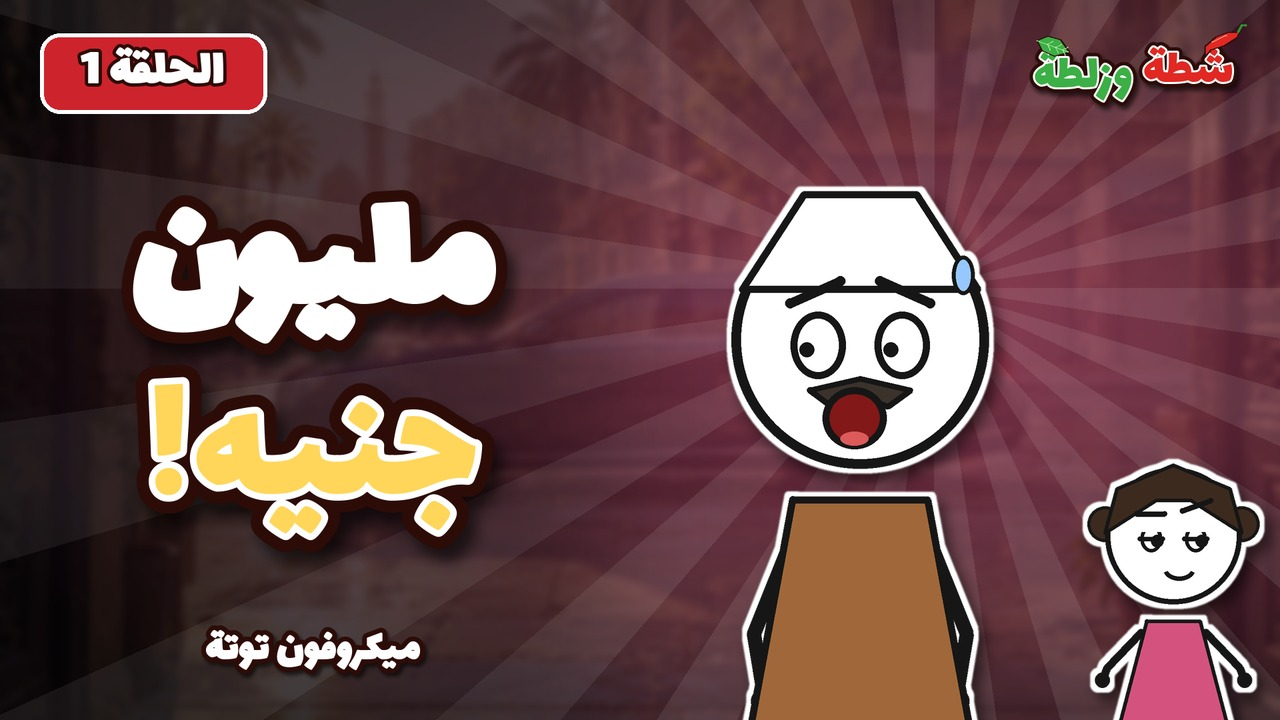
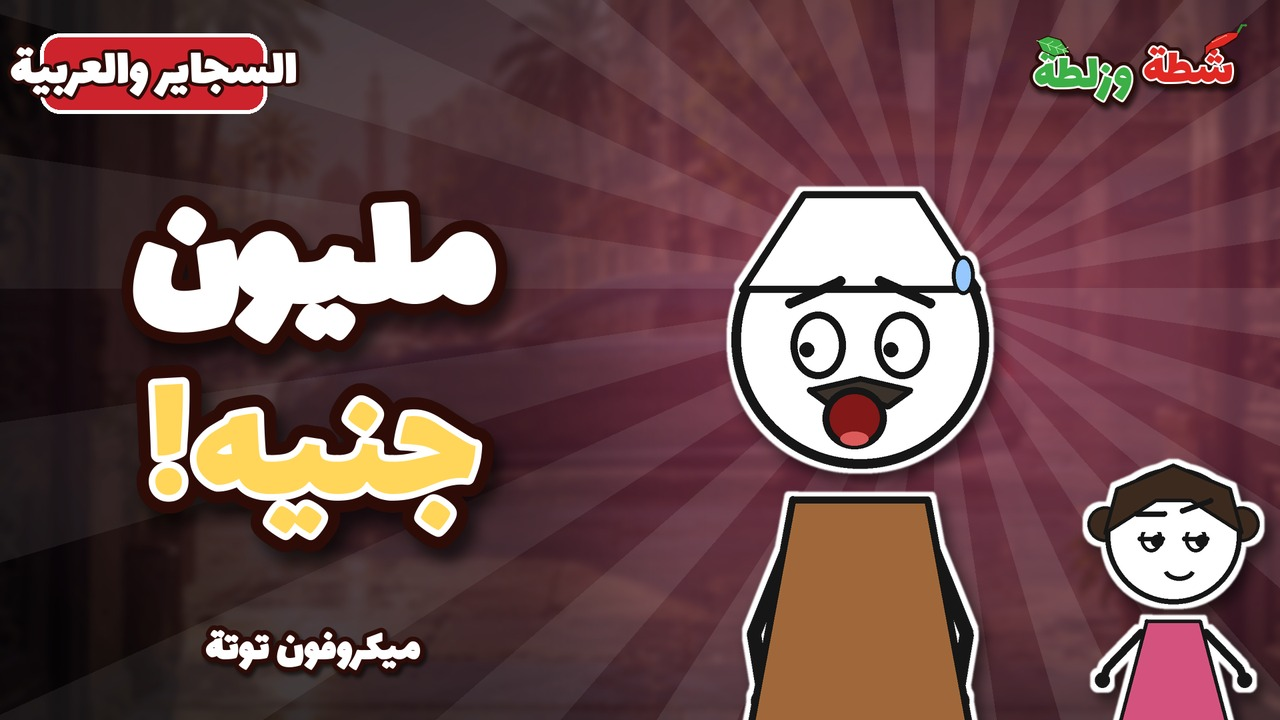
بص على رجلي: user notes (crowded class with Abdo & Tota, reactions, group laugh); rebuilt sketch thumbs/captions without episode numbers
Claude-Session: https://claude.ai/code/session_01QBkgXqDRYZm5xFdcbBft5r

Changed region(s): [[0.0, 0.0611, 0.25, 0.1528]]

diff --git a/publish/captions/daily_e01.html b/publish/captions/daily_e01.html
@@ -12,7 +12,7 @@ pre{margin:0;white-space:pre-wrap;word-break:break-word;background:var(--bg);bor
 button{font:inherit;font-size:14px;font-weight:700;border:0;border-radius:999px;padding:8px 18px;background:var(--acc);color:#fff;cursor:pointer;min-width:84px}
 button.done{background:var(--ok)}
 .files{font-size:14px;color:var(--muted)}
-</style></head><body><div class="wrap"><header><h1>يوميات شطة وزلطة — التلاجة</h1><p>ميعاد النشر: 2026-11-25 15:00 بتوقيت القاهرة</p></header><section class="plat"><h2><span class="dot" style="background:#ff0033"></span>يوتيوب (الحلقة العرض)</h2><div class="field"><div class="label"><span>العنوان</span><button onclick="copyText('f1', this)">نسخ</button></div><pre id="f1">طلعوا التلاجة 10 أدوار… في العمارة الغلط! 😂 | يوميات شطة وزلطة - الحلقة 1 | شطة وزلطة</pre></div><div class="field"><div class="label"><span>الوصف</span><button onclick="copyText('f2', this)">نسخ</button></div><pre id="f2">شطة وزلطة طالعين بالتلاجة وتعبانين موت… وعم بندق عنده خبرين: واحد حلو وواحد وحش 😂
+</style></head><body><div class="wrap"><header><h1>يوميات شطة وزلطة — التلاجة</h1><p>ميعاد النشر: 2026-11-25 15:00 بتوقيت القاهرة</p></header><section class="plat"><h2><span class="dot" style="background:#ff0033"></span>يوتيوب (الحلقة العرض)</h2><div class="field"><div class="label"><span>العنوان</span><button onclick="copyText('f1', this)">نسخ</button></div><pre id="f1">طلعوا التلاجة 10 أدوار… في العمارة الغلط! 😂 | يوميات شطة وزلطة - التلاجة | شطة وزلطة</pre></div><div class="field"><div class="label"><span>الوصف</span><button onclick="copyText('f2', this)">نسخ</button></div><pre id="f2">شطة وزلطة طالعين بالتلاجة وتعبانين موت… وعم بندق عنده خبرين: واحد حلو وواحد وحش 😂
 
 «يوميات شطة وزلطة» 🌶🥗 — مواقف يومية مصرية بتحصل لنا كلنا… بس مع شطة وزلطة بتبقى أضحك! سكتش كوميدي قصير
 
@@ -30,7 +30,7 @@ button.done{background:var(--ok)}
 ▶ يوتيوب: https://www.youtube.com/@shattawzalata
 🎵 تيك توك: https://www.tiktok.com/@shattawzalata
 📸 انستجرام: https://www.instagram.com/shattawzalata
-👍 فيسبوك: https://www.facebook.com/shattawzalata</pre></div></section><section class="plat"><h2><span class="dot" style="background:#ff0033"></span>يوتيوب شورتس</h2><div class="field"><div class="label"><span>العنوان</span><button onclick="copyText('f5', this)">نسخ</button></div><pre id="f5">طلعوا التلاجة 10 أدوار… في العمارة الغلط! 😂 | يوميات شطة وزلطة الحلقة 1 #Shorts</pre></div><div class="field"><div class="label"><span>الوصف</span><button onclick="copyText('f6', this)">نسخ</button></div><pre id="f6">شطة وزلطة طالعين بالتلاجة وتعبانين موت… وعم بندق عنده خبرين: واحد حلو وواحد وحش 😂
+👍 فيسبوك: https://www.facebook.com/shattawzalata</pre></div></section><section class="plat"><h2><span class="dot" style="background:#ff0033"></span>يوتيوب شورتس</h2><div class="field"><div class="label"><span>العنوان</span><button onclick="copyText('f5', this)">نسخ</button></div><pre id="f5">طلعوا التلاجة 10 أدوار… في العمارة الغلط! 😂 | يوميات شطة وزلطة التلاجة #Shorts</pre></div><div class="field"><div class="label"><span>الوصف</span><button onclick="copyText('f6', this)">نسخ</button></div><pre id="f6">شطة وزلطة طالعين بالتلاجة وتعبانين موت… وعم بندق عنده خبرين: واحد حلو وواحد وحش 😂
 
 تابعونا في كل مكان 👇
 ▶ يوتيوب: https://www.youtube.com/@shattawzalata
@@ -44,13 +44,13 @@ button.done{background:var(--ok)}
 ▶ يوتيوب: https://www.youtube.com/@shattawzalata
 🎵 تيك توك: https://www.tiktok.com/@shattawzalata
 📸 انستجرام: https://www.instagram.com/shattawzalata
-👍 فيسبوك: https://www.facebook.com/shattawzalata</pre></div></section><section class="plat"><h2><span class="dot" style="background:#25f4ee"></span>تيك توك</h2><div class="field"><div class="label"><span>الكابشن</span><button onclick="copyText('f8', this)">نسخ</button></div><pre id="f8">شطة وزلطة طالعين بالتلاجة وتعبانين موت… وعم بندق عنده خبرين: واحد حلو وواحد وحش 😂 الحلقة 1 من «يوميات شطة وزلطة» 🎬
+👍 فيسبوك: https://www.facebook.com/shattawzalata</pre></div></section><section class="plat"><h2><span class="dot" style="background:#25f4ee"></span>تيك توك</h2><div class="field"><div class="label"><span>الكابشن</span><button onclick="copyText('f8', this)">نسخ</button></div><pre id="f8">شطة وزلطة طالعين بالتلاجة وتعبانين موت… وعم بندق عنده خبرين: واحد حلو وواحد وحش 😂 من «يوميات شطة وزلطة» 🎬
 💬 لو إنت مكان شطة وزلطة… كنت هتعمل إيه في عم بندق؟ 😂 👇
 #يوميات_شطة_وزلطة #شطة_وزلطة #كرتون_مصري #كوميدي #ضحك #fyp</pre></div><div class="field"><div class="label"><span>الكومنت المثبت</span><button onclick="copyText('f9', this)">نسخ</button></div><pre id="f9">💬 لو إنت مكان شطة وزلطة… كنت هتعمل إيه في عم بندق؟ 😂 👇
-تابعونا على يوتيوب وانستجرام وفيسبوك وتيك توك: @shattawzalata 🌶🥗</pre></div></section><section class="plat"><h2><span class="dot" style="background:#e1306c"></span>ريلز انستجرام</h2><div class="field"><div class="label"><span>الكابشن</span><button onclick="copyText('f10', this)">نسخ</button></div><pre id="f10">شطة وزلطة طالعين بالتلاجة وتعبانين موت… وعم بندق عنده خبرين: واحد حلو وواحد وحش 😂 الحلقة 1 من «يوميات شطة وزلطة» 🎬
+تابعونا على يوتيوب وانستجرام وفيسبوك وتيك توك: @shattawzalata 🌶🥗</pre></div></section><section class="plat"><h2><span class="dot" style="background:#e1306c"></span>ريلز انستجرام</h2><div class="field"><div class="label"><span>الكابشن</span><button onclick="copyText('f10', this)">نسخ</button></div><pre id="f10">شطة وزلطة طالعين بالتلاجة وتعبانين موت… وعم بندق عنده خبرين: واحد حلو وواحد وحش 😂 من «يوميات شطة وزلطة» 🎬
 💬 لو إنت مكان شطة وزلطة… كنت هتعمل إيه في عم بندق؟ 😂 👇
 #يوميات_شطة_وزلطة #شطة_وزلطة #كرتون_مصري #كوميدي #ريلز</pre></div><div class="field"><div class="label"><span>الكومنت المثبت</span><button onclick="copyText('f11', this)">نسخ</button></div><pre id="f11">💬 لو إنت مكان شطة وزلطة… كنت هتعمل إيه في عم بندق؟ 😂 👇
-تابعونا على يوتيوب وانستجرام وفيسبوك وتيك توك: @shattawzalata 🌶🥗</pre></div></section><section class="plat"><h2><span class="dot" style="background:#1877f2"></span>ريلز فيسبوك</h2><div class="field"><div class="label"><span>الكابشن</span><button onclick="copyText('f12', this)">نسخ</button></div><pre id="f12">شطة وزلطة طالعين بالتلاجة وتعبانين موت… وعم بندق عنده خبرين: واحد حلو وواحد وحش 😂 الحلقة 1 من «يوميات شطة وزلطة» 🎬
+تابعونا على يوتيوب وانستجرام وفيسبوك وتيك توك: @shattawzalata 🌶🥗</pre></div></section><section class="plat"><h2><span class="dot" style="background:#1877f2"></span>ريلز فيسبوك</h2><div class="field"><div class="label"><span>الكابشن</span><button onclick="copyText('f12', this)">نسخ</button></div><pre id="f12">شطة وزلطة طالعين بالتلاجة وتعبانين موت… وعم بندق عنده خبرين: واحد حلو وواحد وحش 😂 من «يوميات شطة وزلطة» 🎬
 💬 لو إنت مكان شطة وزلطة… كنت هتعمل إيه في عم بندق؟ 😂 👇
 #يوميات_شطة_وزلطة #شطة_وزلطة #كرتون_مصري</pre></div><div class="field"><div class="label"><span>الكومنت المثبت</span><button onclick="copyText('f13', this)">نسخ</button></div><pre id="f13">💬 لو إنت مكان شطة وزلطة… كنت هتعمل إيه في عم بندق؟ 😂 👇
 تابعونا على يوتيوب وانستجرام وفيسبوك وتيك توك: @shattawzalata 🌶🥗</pre></div></section></div><script>

diff --git a/publish/captions/mic_e01.html b/publish/captions/mic_e01.html
@@ -12,7 +12,7 @@ pre{margin:0;white-space:pre-wrap;word-break:break-word;background:var(--bg);bor
 button{font:inherit;font-size:14px;font-weight:700;border:0;border-radius:999px;padding:8px 18px;background:var(--acc);color:#fff;cursor:pointer;min-width:84px}
 button.done{background:var(--ok)}
 .files{font-size:14px;color:var(--muted)}
-</style></head><body><div class="wrap"><header><h1>ميكروفون توتة — السجاير والعربية</h1><p>ميعاد النشر: 2026-11-24 15:00 بتوقيت القاهرة</p></header><section class="plat"><h2><span class="dot" style="background:#ff0033"></span>يوتيوب (الحلقة العرض)</h2><div class="field"><div class="label"><span>العنوان</span><button onclick="copyText('f1', this)">نسخ</button></div><pre id="f1">عم بندق وحسبة السجاير! 🚬🚗 | ميكروفون توتة - الحلقة 1 | شطة وزلطة</pre></div><div class="field"><div class="label"><span>الوصف</span><button onclick="copyText('f2', this)">نسخ</button></div><pre id="f2">توتة نزلت بالميكروفون وحسبت لعم بندق السجاير بتاعته… مليون جنيه! بس رده قلب الطاولة 😂
+</style></head><body><div class="wrap"><header><h1>ميكروفون توتة — السجاير والعربية</h1><p>ميعاد النشر: 2026-11-24 15:00 بتوقيت القاهرة</p></header><section class="plat"><h2><span class="dot" style="background:#ff0033"></span>يوتيوب (الحلقة العرض)</h2><div class="field"><div class="label"><span>العنوان</span><button onclick="copyText('f1', this)">نسخ</button></div><pre id="f1">عم بندق وحسبة السجاير! 🚬🚗 | ميكروفون توتة - السجاير والعربية | شطة وزلطة</pre></div><div class="field"><div class="label"><span>الوصف</span><button onclick="copyText('f2', this)">نسخ</button></div><pre id="f2">توتة نزلت بالميكروفون وحسبت لعم بندق السجاير بتاعته… مليون جنيه! بس رده قلب الطاولة 😂
 
 «ميكروفون توتة» 🎤 — توتة بتنزل بالميكروفون تسأل سؤال واحد… والإجابة دايماً بتقلب الطاولة! سكتش كوميدي من «شطة وزلطة» 🌶🥗
 
@@ -30,7 +30,7 @@ button.done{background:var(--ok)}
 ▶ يوتيوب: https://www.youtube.com/@shattawzalata
 🎵 تيك توك: https://www.tiktok.com/@shattawzalata
 📸 انستجرام: https://www.instagram.com/shattawzalata
-👍 فيسبوك: https://www.facebook.com/shattawzalata</pre></div></section><section class="plat"><h2><span class="dot" style="background:#ff0033"></span>يوتيوب شورتس</h2><div class="field"><div class="label"><span>العنوان</span><button onclick="copyText('f5', this)">نسخ</button></div><pre id="f5">عم بندق وحسبة السجاير! 🚬🚗 | ميكروفون توتة الحلقة 1 #Shorts</pre></div><div class="field"><div class="label"><span>الوصف</span><button onclick="copyText('f6', this)">نسخ</button></div><pre id="f6">توتة نزلت بالميكروفون وحسبت لعم بندق السجاير بتاعته… مليون جنيه! بس رده قلب الطاولة 😂
+👍 فيسبوك: https://www.facebook.com/shattawzalata</pre></div></section><section class="plat"><h2><span class="dot" style="background:#ff0033"></span>يوتيوب شورتس</h2><div class="field"><div class="label"><span>العنوان</span><button onclick="copyText('f5', this)">نسخ</button></div><pre id="f5">عم بندق وحسبة السجاير! 🚬🚗 | ميكروفون توتة السجاير والعربية #Shorts</pre></div><div class="field"><div class="label"><span>الوصف</span><button onclick="copyText('f6', this)">نسخ</button></div><pre id="f6">توتة نزلت بالميكروفون وحسبت لعم بندق السجاير بتاعته… مليون جنيه! بس رده قلب الطاولة 😂
 
 تابعونا في كل مكان 👇
 ▶ يوتيوب: https://www.youtube.com/@shattawzalata
@@ -44,13 +44,13 @@ button.done{background:var(--ok)}
 ▶ يوتيوب: https://www.youtube.com/@shattawzalata
 🎵 تيك توك: https://www.tiktok.com/@shattawzalata
 📸 انستجرام: https://www.instagram.com/shattawzalata
-👍 فيسبوك: https://www.facebook.com/shattawzalata</pre></div></section><section class="plat"><h2><span class="dot" style="background:#25f4ee"></span>تيك توك</h2><div class="field"><div class="label"><span>الكابشن</span><button onclick="copyText('f8', this)">نسخ</button></div><pre id="f8">توتة نزلت بالميكروفون وحسبت لعم بندق السجاير بتاعته… مليون جنيه! بس رده قلب الطاولة 😂 الحلقة 1 من «ميكروفون توتة» 🎬
+👍 فيسبوك: https://www.facebook.com/shattawzalata</pre></div></section><section class="plat"><h2><span class="dot" style="background:#25f4ee"></span>تيك توك</h2><div class="field"><div class="label"><span>الكابشن</span><button onclick="copyText('f8', this)">نسخ</button></div><pre id="f8">توتة نزلت بالميكروفون وحسبت لعم بندق السجاير بتاعته… مليون جنيه! بس رده قلب الطاولة 😂 من «ميكروفون توتة» 🎬
 💬 لو إنت مكان توتة… كنت هترد على عم بندق تقول إيه؟ 😂 👇
 #ميكروفون_توتة #شطة_وزلطة #كرتون_مصري #كوميدي #ضحك #fyp</pre></div><div class="field"><div class="label"><span>الكومنت المثبت</span><button onclick="copyText('f9', this)">نسخ</button></div><pre id="f9">💬 لو إنت مكان توتة… كنت هترد على عم بندق تقول إيه؟ 😂 👇
-تابعونا على يوتيوب وانستجرام وفيسبوك وتيك توك: @shattawzalata 🌶🥗</pre></div></section><section class="plat"><h2><span class="dot" style="background:#e1306c"></span>ريلز انستجرام</h2><div class="field"><div class="label"><span>الكابشن</span><button onclick="copyText('f10', this)">نسخ</button></div><pre id="f10">توتة نزلت بالميكروفون وحسبت لعم بندق السجاير بتاعته… مليون جنيه! بس رده قلب الطاولة 😂 الحلقة 1 من «ميكروفون توتة» 🎬
+تابعونا على يوتيوب وانستجرام وفيسبوك وتيك توك: @shattawzalata 🌶🥗</pre></div></section><section class="plat"><h2><span class="dot" style="background:#e1306c"></span>ريلز انستجرام</h2><div class="field"><div class="label"><span>الكابشن</span><button onclick="copyText('f10', this)">نسخ</button></div><pre id="f10">توتة نزلت بالميكروفون وحسبت لعم بندق السجاير بتاعته… مليون جنيه! بس رده قلب الطاولة 😂 من «ميكروفون توتة» 🎬
 💬 لو إنت مكان توتة… كنت هترد على عم بندق تقول إيه؟ 😂 👇
 #ميكروفون_توتة #شطة_وزلطة #كرتون_مصري #كوميدي #ريلز</pre></div><div class="field"><div class="label"><span>الكومنت المثبت</span><button onclick="copyText('f11', this)">نسخ</button></div><pre id="f11">💬 لو إنت مكان توتة… كنت هترد على عم بندق تقول إيه؟ 😂 👇
-تابعونا على يوتيوب وانستجرام وفيسبوك وتيك توك: @shattawzalata 🌶🥗</pre></div></section><section class="plat"><h2><span class="dot" style="background:#1877f2"></span>ريلز فيسبوك</h2><div class="field"><div class="label"><span>الكابشن</span><button onclick="copyText('f12', this)">نسخ</button></div><pre id="f12">توتة نزلت بالميكروفون وحسبت لعم بندق السجاير بتاعته… مليون جنيه! بس رده قلب الطاولة 😂 الحلقة 1 من «ميكروفون توتة» 🎬
+تابعونا على يوتيوب وانستجرام وفيسبوك وتيك توك: @shattawzalata 🌶🥗</pre></div></section><section class="plat"><h2><span class="dot" style="background:#1877f2"></span>ريلز فيسبوك</h2><div class="field"><div class="label"><span>الكابشن</span><button onclick="copyText('f12', this)">نسخ</button></div><pre id="f12">توتة نزلت بالميكروفون وحسبت لعم بندق السجاير بتاعته… مليون جنيه! بس رده قلب الطاولة 😂 من «ميكروفون توتة» 🎬
 💬 لو إنت مكان توتة… كنت هترد على عم بندق تقول إيه؟ 😂 👇
 #ميكروفون_توتة #شطة_وزلطة #كرتون_مصري</pre></div><div class="field"><div class="label"><span>الكومنت المثبت</span><button onclick="copyText('f13', this)">نسخ</button></div><pre id="f13">💬 لو إنت مكان توتة… كنت هترد على عم بندق تقول إيه؟ 😂 👇
 تابعونا على يوتيوب وانستجرام وفيسبوك وتيك توك: @shattawzalata 🌶🥗</pre></div></section></div><script>

diff --git a/publish/schedule.md b/publish/schedule.md
@@ -23,8 +23,8 @@
 | 2026-11-21 | 21:00 | عمارة نعناعة - الموسم 1 — الحلقة 9: اللي ورا الباب | ✅ عرض + Short | ✅ | ✅ ريل | يوتيوب ⏳ • شورتس ⏳ • تيك توك ✅ • فيس ✅ • انستا ✅ |
 | 2026-11-22 | 21:00 | عمارة نعناعة - الموسم 1 — الحلقة 10: الحقيقة | ✅ عرض + Short | ✅ | ✅ ريل | يوتيوب ⏳ • شورتس ⏳ • تيك توك ✅ • فيس ✅ • انستا ✅ |
 | 2026-11-23 | 18:00 | عمارة نعناعة - الموسم 1 — الفيلم: الموسم الأول كامل | ✅ عرض | — | ✅ فيديو فيسبوك | فيلم كامل على فيس ✅ (منشور فيديو) • الملخص الطولي: تيك توك ✅ • ريلز انستا/فيس ✅ • يوتيوب (الفيلم الكامل) ⏳ |
-| 2026-11-24 | 15:00 | ميكروفون توتة — الحلقة 1: السجاير والعربية | ✅ عرض + Short | ✅ | ✅ ريل | جاهز ✅ (يوتيوب + شورتس + تيك توك + ريلز انستا/فيس) — مستني الجدولة 24/11 الساعة 3 العصر |
-| 2026-11-25 | 15:00 | يوميات شطة وزلطة — الحلقة 1: التلاجة | ✅ عرض + Short | ✅ | ✅ ريل | جاهز ✅ (يوتيوب + شورتس + تيك توك + ريلز انستا/فيس) — مستني الجدولة 25/11 الساعة 3 العصر |
+| 2026-11-24 | 15:00 | ميكروفون توتة — السجاير والعربية | ✅ عرض + Short | ✅ | ✅ ريل | جاهز ✅ (يوتيوب + شورتس + تيك توك + ريلز انستا/فيس) — مستني الجدولة 24/11 الساعة 3 العصر |
+| 2026-11-25 | 15:00 | يوميات شطة وزلطة — التلاجة | ✅ عرض + Short | ✅ | ✅ ريل | جاهز ✅ (يوتيوب + شورتس + تيك توك + ريلز انستا/فيس) — مستني الجدولة 25/11 الساعة 3 العصر |
 | 2026-12-05 | 18:00 | عمارة نعناعة - الموسم 2 — الفيلم: الموسم التاني كامل | ✅ عرض | — | ✅ فيديو فيسبوك | جاهز ✅ (يوتيوب + فيديو فيسبوك) — مستني الجدولة 5/12 بعد آخر حلقة |
 | 2026-11-23 | 21:00 | عمارة نعناعة - الموسم 2 — إعلان: إعلان الموسم التاني | ✅ عرض + Short | ✅ | ✅ ريل | pending |
 | 2026-11-24 | 21:00 | عمارة نعناعة - الموسم 2 — الحلقة 1: باب البدروم | ✅ عرض + Short | ✅ | ✅ ريل | pending |
@@ -1059,14 +1059,14 @@
 👍 فيسبوك: https://www.facebook.com/shattawzalata
 ```
 
-### 2026-11-24 15:00 — ميكروفون توتة — الحلقة 1: السجاير والعربية
+### 2026-11-24 15:00 — ميكروفون توتة — السجاير والعربية
 
-- **الملفات:** `media/mic_e01_h.mp4` + `media/mic_e01_v.mp4` (الأصل: ميكروفون توتة - الحلقة 01 - السجاير والعربية.mp4)
+- **الملفات:** `media/mic_e01_h.mp4` + `media/mic_e01_v.mp4` (الأصل: ميكروفون توتة - السجاير والعربية.mp4)
 - **الصور:** `thumbs/mic_e01_yt.jpg` (يوتيوب) — `thumbs/mic_e01_cover.jpg` (غلاف طولي)
 
 **عنوان يوتيوب:**
 ```
-عم بندق وحسبة السجاير! 🚬🚗 | ميكروفون توتة - الحلقة 1 | شطة وزلطة
+عم بندق وحسبة السجاير! 🚬🚗 | ميكروفون توتة - السجاير والعربية | شطة وزلطة
 ```
 **وصف يوتيوب:**
 ```
@@ -1096,13 +1096,13 @@
 ```
 **كابشن تيك توك:**
 ```
-توتة نزلت بالميكروفون وحسبت لعم بندق السجاير بتاعته… مليون جنيه! بس رده قلب الطاولة 😂 الحلقة 1 من «ميكروفون توتة» 🎬
+توتة نزلت بالميكروفون وحسبت لعم بندق السجاير بتاعته… مليون جنيه! بس رده قلب الطاولة 😂 من «ميكروفون توتة» 🎬
 💬 لو إنت مكان توتة… كنت هترد على عم بندق تقول إيه؟ 😂 👇
 #ميكروفون_توتة #شطة_وزلطة #كرتون_مصري #كوميدي #ضحك #fyp
 ```
 **كابشن انستجرام/فيسبوك:**
 ```
-توتة نزلت بالميكروفون وحسبت لعم بندق السجاير بتاعته… مليون جنيه! بس رده قلب الطاولة 😂 الحلقة 1 من «ميكروفون توتة» 🎬
+توتة نزلت بالميكروفون وحسبت لعم بندق السجاير بتاعته… مليون جنيه! بس رده قلب الطاولة 😂 من «ميكروفون توتة» 🎬
 💬 لو إنت مكان توتة… كنت هترد على عم بندق تقول إيه؟ 😂 👇
 #ميكروفون_توتة #شطة_وزلطة #كرتون_مصري #كوميدي #ريلز
 ```
@@ -1112,14 +1112,14 @@
 تابعونا على يوتيوب وانستجرام وفيسبوك وتيك توك: @shattawzalata 🌶🥗
 ```
 
-### 2026-11-25 15:00 — يوميات شطة وزلطة — الحلقة 1: التلاجة
+### 2026-11-25 15:00 — يوميات شطة وزلطة — التلاجة
 
-- **الملفات:** `media/daily_e01_h.mp4` + `media/daily_e01_v.mp4` (الأصل: يوميات شطة وزلطة - الحلقة 01 - التلاجة.mp4)
+- **الملفات:** `media/daily_e01_h.mp4` + `media/daily_e01_v.mp4` (الأصل: يوميات شطة وزلطة - التلاجة.mp4)
 - **الصور:** `thumbs/daily_e01_yt.jpg` (يوتيوب) — `thumbs/daily_e01_cover.jpg` (غلاف طولي)
 
 **عنوان يوتيوب:**
 ```
-طلعوا التلاجة 10 أدوار… في العمارة الغلط! 😂 | يوميات شطة وزلطة - الحلقة 1 | شطة وزلطة
+طلعوا التلاجة 10 أدوار… في العمارة الغلط! 😂 | يوميات شطة وزلطة - التلاجة | شطة وزلطة
 ```
 **وصف يوتيوب:**
 ```
@@ -1149,13 +1149,13 @@
 ```
 **كابشن تيك توك:**
 ```
-شطة وزلطة طالعين بالتلاجة وتعبانين موت… وعم بندق عنده خبرين: واحد حلو وواحد وحش 😂 الحلقة 1 من «يوميات شطة وزلطة» 🎬
+شطة وزلطة طالعين بالتلاجة وتعبانين موت… وعم بندق عنده خبرين: واحد حلو وواحد وحش 😂 من «يوميات شطة وزلطة» 🎬
 💬 لو إنت مكان شطة وزلطة… كنت هتعمل إيه في عم بندق؟ 😂 👇
 #يوميات_شطة_وزلطة #شطة_وزلطة #كرتون_مصري #كوميدي #ضحك #fyp
 ```
 **كابشن انستجرام/فيسبوك:**
 ```
-شطة وزلطة طالعين بالتلاجة وتعبانين موت… وعم بندق عنده خبرين: واحد حلو وواحد وحش 😂 الحلقة 1 من «يوميات شطة وزلطة» 🎬
+شطة وزلطة طالعين بالتلاجة وتعبانين موت… وعم بندق عنده خبرين: واحد حلو وواحد وحش 😂 من «يوميات شطة وزلطة» 🎬
 💬 لو إنت مكان شطة وزلطة… كنت هتعمل إيه في عم بندق؟ 😂 👇
 #يوميات_شطة_وزلطة #شطة_وزلطة #كرتون_مصري #كوميدي #ريلز
 ```

diff --git a/daily/02/script.md b/daily/02/script.md
@@ -16,3 +16,11 @@ Z03 زلطة: بص على رجلي… واعرف اسمي.
 - سكتة… عين فهمي ترمش، الطباشيرة تقع من إيده.
 - Closing: trademark laugh — شطة (saved laugh #24 mic/01/audio/laugh_B_shatta.mp3).
 Pronunciation test (flow hmliDWTcrbabRvwzY3vZ): Fahmy TzvuLIaSuAFvagSUQhku gen UNKajtTcczFLYpt8oePf (1–6) | Zalata gen cMqVFIa7QEzV6WqGqmqk (7–10; 10 = line 9 bare). Merged MP3 sent.
+
+## User notes 2026-11-13 (must apply)
+- MOST IMPORTANT: reactions in acting AND in delivery — every line gets listener reactions (class, Shatta, Fahmy).
+- The class is CROWDED with students (rows of generic students) — عبده and توتة are in the class too.
+- Ending = a GROUP laugh (the whole class) instead of Shatta alone: Shatta #24 + Tota + Abdo + class crowd laughter.
+Reaction plan: «حمار؟» → class giggles, Fahmy's eye twitches; «معزة؟» → Abdo snorts, Tota hides a laugh behind her notebook;
+the stick slam → everyone jumps, Shatta's chips fly; «بص على رجلي» → Zalata lifts his leg onto the desk, pushes his glasses up;
+beat of silence (Fahmy's chalk drops) → the whole class explodes laughing, Fahmy turns red with steam.
